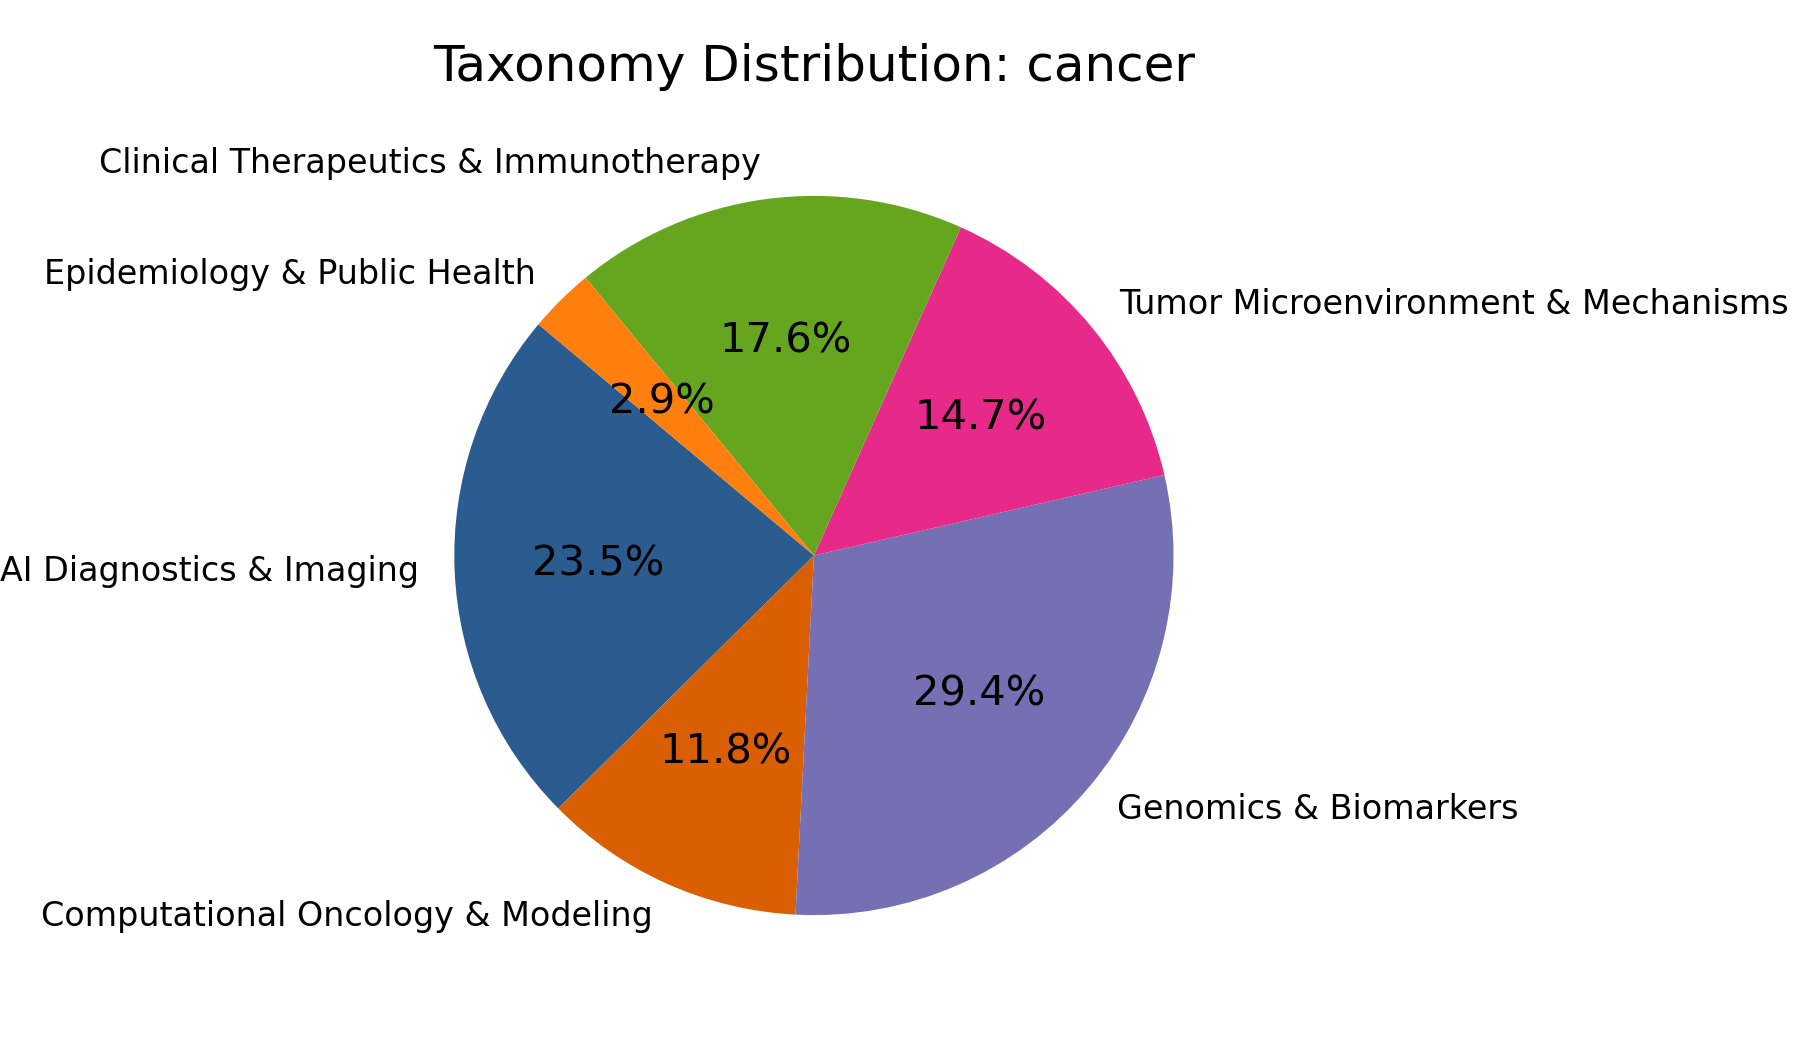
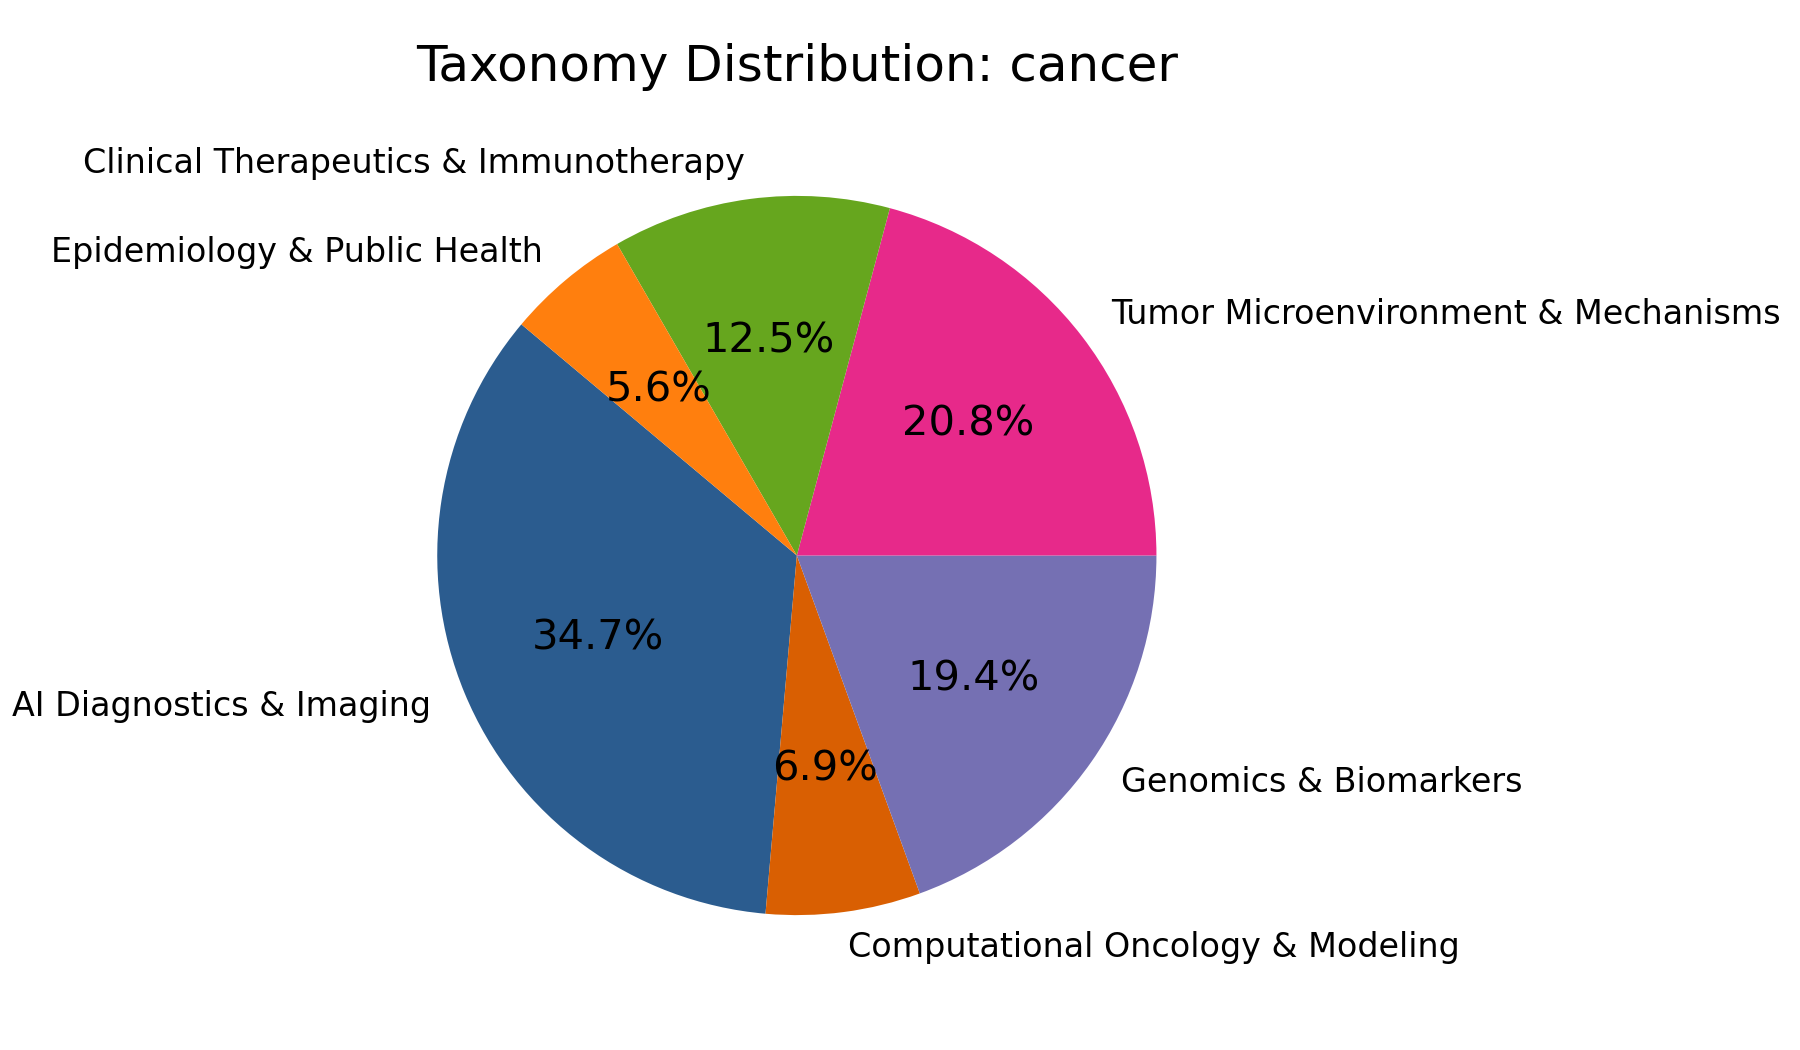
feat(cancer): integrated valid papers (LSS: 86.68)

diff --git a/surveys/cancer/generate_figures.py b/surveys/cancer/generate_figures.py
@@ -11,8 +11,8 @@ plt.rcParams.update({'font.size': 10, 'axes.labelsize': 11, 'axes.titlesize': 12
 
 SURVEY_TITLE = "cancer"
 # [AI AGENT ZONE] Edit only these dictionaries
-TIMELINE_DATA = {"2024": 0, "2025": 0, "2026": 34}
-TAXONOMY_DATA = {"AI Diagnostics & Imaging": 8, "Computational Oncology & Modeling": 4, "Genomics & Biomarkers": 10, "Tumor Microenvironment & Mechanisms": 5, "Clinical Therapeutics & Immunotherapy": 6, "Epidemiology & Public Health": 1}
+TIMELINE_DATA = {"2024": 0, "2025": 0, "2026": 58, "2027": 9, "2028": 2, "2029": 1, "2031": 1}
+TAXONOMY_DATA = {"AI Diagnostics & Imaging": 25, "Computational Oncology & Modeling": 5, "Genomics & Biomarkers": 14, "Tumor Microenvironment & Mechanisms": 15, "Clinical Therapeutics & Immunotherapy": 9, "Epidemiology & Public Health": 4}
 
 def plot_publication_timeline():
     years, counts = list(TIMELINE_DATA.keys()), list(TIMELINE_DATA.values())

diff --git a/surveys/cancer/cancer.md b/surveys/cancer/cancer.md
@@ -7,11 +7,22 @@ This document collects the scientific literature regarding **cancer**.
 ## Molecular Mechanisms & Tumor Microenvironment
 Recent studies have elucidated complex biophysical and metabolic interactions within the tumor microenvironment. Tumor-induced lipid loss has been shown to physically remodel adipose tissue, accelerating breast cancer invasion through increased tissue pressure [^2609.23229]. Similarly, dense HeLa cell monolayers exhibit liquid-like collective dynamics that sustain metastatic potential even under strong crowding conditions [^2609.18768]. Metabolic vulnerabilities are also being targeted; omega-3 polyunsaturated fatty acids induce mitochondrial succinylation networks that disrupt homeostasis and trigger ferroptosis in prostate cancer cells [^10.17638_03195029]. At the chromatin level, the DEK oncoprotein drives metastatic melanoma progression through context-dependent transcriptional regulation and phosphorylation-dependent chromatin remodeling [^10.17638_03194520]. Furthermore, deubiquitinating enzymes (DUBs) have been identified as critical regulators of YAP/TAZ oncogenic activity in mesothelioma and head and neck squamous cell carcinoma, offering new therapeutic targets [^10.17638_03193849]. Metabolic modeling also extends to the gut microbiome, where a combined ODE model demonstrates that butyrate production from fiber fermentation can suppress colorectal tumor growth [^2609.19371].
 
+Recent advances in nanotheranostics demonstrate that shape- and cation-engineered ferrite nanoparticles can significantly enhance heating and MRI contrast in ovarian cancer phantoms while maintaining hemocompatibility [^2609.14720]. Magnetic particle spectroscopy further enables sensitive detection of these nanoparticles within ovarian cancer cells, revealing partial restriction of Brownian rotation in the cellular environment [^2609.14162]. At the cellular signaling level, tissue microstructure profoundly influences calcium wave propagation, with new fluorescent biosensors providing dynamic readouts of protease secretion relevant to cancer progression [^10.48617_etd.1484]. In glioblastoma, secretomes and extracellular vesicles derived from neural crest stem cells inhibit tumor proliferation and modulate inflammatory signaling pathways, offering a novel immunomodulatory strategy [^10.48683_1926.00128572]. Spatial transcriptomics continues to unravel tumor heterogeneity; neuro-related tertiary lymphoid structures have been linked to chemotherapy sensitivity in pancreatic cancer [^10.5281_zenodo.17760849], while intra-tumor malignant cell diversity in colorectal cancer is shaped by microenvironmental cues [^10.5281_zenodo.17826866]. Immune-metabolic crosstalk is also being clarified, with Siglec-10 identified as a critical receptor protecting tumor-associated macrophages from lactate-induced impairment in colorectal metastasis [^10.5281_zenodo.21882301]. Metastatic mechanisms are further illuminated by clonal tracing experiments mapping breast cancer niches in the lung and liver [^10.5281_zenodo.10457442], and RET signaling is established as a key mediator of estrogen receptor-positive breast cancer brain metastasis [^10.5281_zenodo.19501083]. Finally, foundational DNA damage studies show that 5-methylcytosine significantly increases susceptibility to UV-induced cyclobutane pyrimidine dimers, advancing our understanding of mutational hotspots in skin carcinogenesis [^10.7273_000007851].
+
 ## Computational Oncology & AI Diagnostics
 Artificial intelligence is rapidly transforming cancer diagnostics and computational modeling. Federated learning frameworks are being deployed to optimize pancreatic cancer treatment strategies while adhering to data privacy regulations [^2609.24718]. In histopathology, hybrid quantum-classical attention mechanisms improve molecular profiling in data-limited cancer cohorts by redistributing predictive accuracy toward biologically relevant targets [^2609.21115]. For medical imaging, FreqDINO++ introduces a frequency-guided multi-task routing foundation model that enhances universal ultrasound analysis for cancer screening [^2609.20340]. Explainability remains a clinical bottleneck; the FCA-Guided Counterfactual framework achieves perfect validity and emergent sparsity for multi-modal breast cancer diagnosis [^2609.20067]. Efficient architectures like the lightweight CNN-Compact Convolutional Transformer enable robust breast cancer mammography classification with minimal computational overhead [^2609.18212], while NeuroTS-Net advances multi-class semantic segmentation for pediatric brain tumors in multi-modal MRI [^2609.16873]. Mechanistic tumor growth parameters can now be estimated from single-point biopsies using 2D reaction-diffusion simulations [^2609.22363]. Additionally, comparative studies benchmark quantum versus classical machine learning models on structured medical datasets, highlighting current limitations and future trajectories for quantum classifiers in oncology [^2609.23476]. Public datasets like ERCPMP-Gx are also expanding AI readiness for colorectal polyposis characterization [^2609.20815].
 
+The integration of vision-language models is streamlining complex imaging workflows, with a unified architecture now capable of simultaneous report generation, visual question answering, and lesion segmentation for PSMA PET/CT in prostate cancer [^2609.15603]. Weakly supervised spatial grounding techniques are improving ultrasound-histopathology alignment for prostate cancer grading by decoupling discriminative feature learning from attention pooling [^2609.15150]. For lung cancer, foundation models adapted for Lung-RADS screening demonstrate that fine-tuning bridges the gap between raw model capabilities and clinical consistency, though deterministic outputs trade off inter-reader variability [^2609.22281]. Robust partially observable Markov decision process frameworks are being developed to optimize low-dose CT screening schedules under transition-model uncertainty [^2609.12007], while Gaussian radial intensity priors guide novel architectures like GRIPNet to detect sub-six-millimeter pulmonary nodules with high precision [^2609.11312]. Large-scale annotation efforts, such as DICOM-harmonized segmentations for the National Lung Screening Trial, are enriching public datasets to accelerate algorithm development [^2609.10858]. Cross-modal translation is advancing through latent Brownian bridge diffusion models that synthesize high-fidelity PET volumes from CT scans, preserving small-lesion metabolic activation [^2609.12860]. In gynecological oncology, dual cross-attention frameworks are automating cervical intraepithelial neoplasia grading and Swede score prediction from colposcopic images [^2609.12827]. Breast imaging benefits from interpretable few-shot prototypical learning (ProtoCAM) for ultrasound lesion classification [^2609.13340] and physics-based triple Debye dielectric modeling to enhance terahertz pulse reflection signatures for early detection [^2609.12701]. Conformal prediction methods are also being adapted to handle transitional uncertainty in melanoma and oral lesion classification, converting ambiguous prediction sets into actionable clinical decisions [^2609.13303]. Machine unlearning frameworks like GRIN+ are addressing privacy regulations by precisely erasing sensitive patient data from models trained on imbalanced medical datasets like skin cancer and breast ultrasound [^2609.15571]. Furthermore, standardized DICOM encoding for computational pathology image-derived data is overcoming historical sharing bottlenecks [^2609.14530]. Unsupervised deep-learning approaches for low-dose CT reconstruction are also being developed to mitigate radiation risks while preserving diagnostic image quality [^10.17638_03194237].
+
 ## Genomics & Biomarker Discovery
-High-dimensional genomic data continues to drive biomarker identification and spatial multi-omics. The S3VS framework improves variable recovery in ultra-high-dimensional settings by exploiting predictor correlations, demonstrating strong performance in ovarian cancer data [^2609.24945]. Proteome-wide mapping across cancer cell lines reveals stable transcriptomic predictors of protein abundance, enabling interpretable modeling even when proteomic data is scarce [^2609.24004]. Bayesian inference methods, such as the Mixed Graph WWA algorithm, facilitate scalable structure learning for heterogeneous gene expression data [^2609.23857]. Non-invasive diagnostics are advancing through THz spectroscopy of urine vapors for prostate cancer detection [^2609.23814] and semi-supervised learning pipelines for multi-stage hepatocellular carcinoma prediction [^2609.17100]. Pan-cancer analyses are yielding valuable insights: a co-expression network identifies hub genes predictive of drug responses [^10.5281_zenodo.2574643], while spatial multi-omics reveals lymphocyte exclusion sites in ccRCC lung metastases [^10.5281_zenodo.18767278]. Liquid biopsy techniques are being refined through cfDNA nucleosome positioning analysis, establishing repeat-based signatures for pan-cancer and tissue-specific diagnostics [^10.5526_err-00042900], and nucleosome repositioning landscapes are being mapped for glioblastoma multiforme [^10.5526_err-00042862]. Single-cell spatial atlases are also being constructed for pan-cancer metastatic brain tumors [^10.5281_zenodo.21816284], alongside comprehensive RNA-seq cohorts for colorectal cancer [^10.5281_zenodo.8307739] and urinary proteomics for breast cancer biomarker discovery [^10.5281_zenodo.20393677].
+High-dimensional genomic data continues to drive biomarker identification and spatial multi-omics. The S3VS framework improves variable recovery in ultra-high-dimensional settings by exploiting predictor correlations, demonstrating strong performance in ovarian cancer data [^2609.24945]. Proteome-wide mapping across cancer cell lines reveals stable transcriptomic predictors of protein abundance, enabling interpretable modeling even when proteomic data is scarce [^2609.24004]. Bayesian inference methods, such as the Mixed Graph WWA algorithm, facilitate scalable structure learning for heterogeneous gene expression data [^2609.23857]. Non-invasive diagnostics are advancing through THz spectroscopy of urine vapors for prostate cancer detection [^2609.23814] and semi-supervised learning pipelines for multi-stage hepatocellular carcinoma prediction [^2609.17100]. Pan-cancer analyses are yielding valuable insights: a co-expression network identifies hub genes predictive of drug responses [^10.5281_zenodo.2574643], while spatial multi-omics reveals lymphocyte exclusion sites in ccRCC lung metastases [^10.5281_zenodo.18767278]. Liquid biopsy techniques are being refined through cfDNA nucleosome positioning analysis, establishing repeat-based signatures for pan-cancer and tissue-specific diagnostics [^10.5526_err-00042900], and nucleosome repositioning landscapes are being mapped for glioblastoma multiforme [^10.5526_err-00042862]. Single-cell spatial atlases are also being constructed for pan-cancer metastatic brain tumors [^10.5281_zenodo.21816284], alongside comprehensive RNA-seq cohorts for colorectal cancer [^10.5281_zenodo.8307739] and urinary proteomics for breast cancer biomarker discovery [^10.5281_zenodo.20393677][^10.5281_zenodo.20405726].
+
+Evolutionary search algorithms are being leveraged to accelerate hypothesis discovery in oncology; HypoEvolve coordinates specialized LLM agents to propose and refine drug repurposing hypotheses for cancer types, outperforming single-pass generation baselines [^2609.15938]. Multi-modal survival prediction is being enhanced by graph-guided mixture of experts frameworks that automatically route clinical, genomic, and histopathological data to specialized models, effectively handling missing modalities in lung adenocarcinoma [^2609.14072]. Spatial transcriptomics datasets are expanding rapidly, including a 1,000-plex CosMx dataset for colorectal cancer tissue microarrays that captures single-cell resolution metadata and fluorescence images [^10.5281_zenodo.21570353].
 
 ## Clinical Therapeutics & Immunotherapy
 Translational research is focusing on optimizing treatment efficacy and understanding drug mechanisms. Transportability frameworks are being developed to estimate absolute treatment effects in target populations by combining routine care data with trial summary measures, applied here to breast cancer endocrine therapy [^2609.24305]. Drug mechanism-of-action modeling is enhanced by inferred hub-miRNAs, which provide biologically informed recoding of transcriptomic data for perturbational drug discovery [^2609.21280]. In immunotherapy, hybrid quantum-classical neural networks improve sample efficiency for peptide-HLA binding prediction, a critical step in neoantigen identification for personalized cancer vaccines [^2609.19642]. Multi-omic prognostic modeling is scaling to over 10,000 checkpoint blockade treatment cases, dissecting tumor-immune ecosystems to identify prognostic cellular programs [^10.5281_zenodo.18706180]. Nutritional interventions are also being explored; polyunsaturated fatty acids mediate the antitumor effects of fasting by inducing lipid peroxidation and ferroptosis in breast cancer [^10.21954_ou.ro.00108036].
+
+Optimal control strategies for chemotherapy are being revolutionized by hybrid quantum particle swarm optimization, which approximates global control trajectories to overcome local minima and ensure smooth, biologically consistent drug delivery schedules [^2609.11197]. Dual cancer-selective lysosomally-targeted antibody-drug conjugates are expanding the druggable proteome by converting poor internalizers into potent therapeutics across multiple cancer targets [^10.5281_zenodo.21088424]. Regulatory science is also evolving to balance speed and certainty; empirical analyses of the FDA's Accelerated Approval pathway reveal that patients are willing to accept greater evidentiary uncertainty only when no alternatives exist or benefits are transformative, highlighting tensions in post-market oversight [^10.21953_lse.00004962].
+
+## Epidemiology & Public Health
+Access to advanced imaging is being democratized through mobile CT services deployed in rural and remote areas, with telehealth and regulatory-authorized AI identified as key integrators for underserved populations [^2609.14347]. Statistical modeling of screening programs addresses historical bias; Markov models demonstrate that differential detection in prostate cancer screening can artificially inflate observed risk ratios, necessitating inverse sensitivity analyses for accurate registry data [^2609.12376]. Trial design methodologies are also being optimized, with optimal cohort staircase designs providing analytical solutions for cluster randomized trials in psychosocial cancer care, balancing repeated measurement burdens with statistical precision [^2609.13740].
